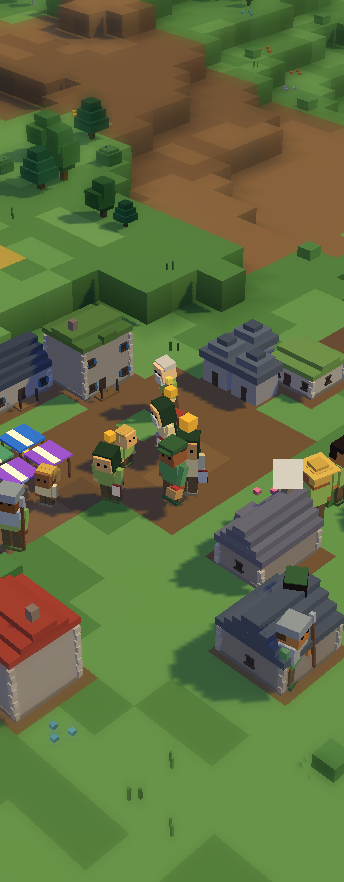
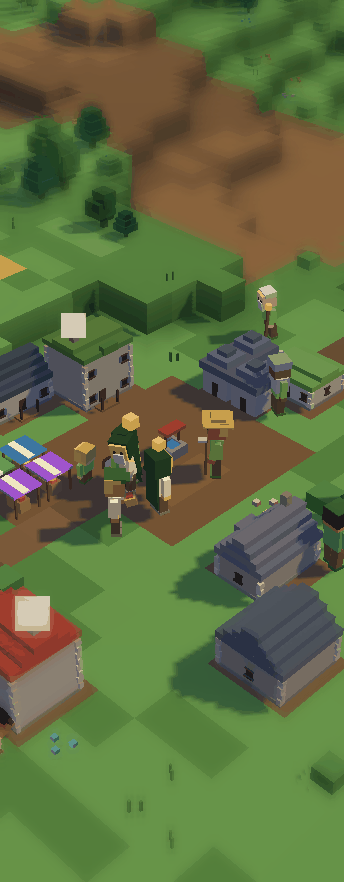
Looks: the miniature's blur becomes a depth of field, at every sky zoom
The owner, after the first frames: "more than bloom it's more depth of field".
The tilt switch now focuses on the point under the middle of the screen and
blurs more the farther in front of or behind it, read from a depth texture the
scene's own pass writes (no extra pass), at every zoom of the sky view, with a
shallower focus the more the camera holds the whole island; still off in the
eye view, still behind its own switch and the high preset. CPU cost alone at
700x830: +0.1 ms (3 passes, as before). Frames: a mid zoom on a village, off and
high, at 390x844 and 344x882; all frames now 256-colour PNGs (832 KB).

Claude-Session: https://claude.ai/code/session_01NxvtAnVeeSftkua711EPa8

diff --git a/src/sim/voxel/looks.ts b/src/sim/voxel/looks.ts
@@ -3,6 +3,7 @@ import {
   Camera,
   Color,
   CustomToneMapping,
+  DepthTexture,
   DirectionalLight,
   Fog,
   HalfFloatType,
@@ -12,6 +13,7 @@ import {
   MeshBasicMaterial,
   NoToneMapping,
   OrthographicCamera,
+  PerspectiveCamera,
   PlaneGeometry,
   Scene,
   ShaderChunk,
@@ -34,7 +36,7 @@ import { GRAPHICS } from "./graphics";
 //   shadows  a sun that casts soft shadows, warm in its light, cool in shade
 //   grade    a filmic curve and a colour grade, and haze over the far side
 //   bloom    glow that spills around bright parts, at night only
-//   tilt     the miniature's blur at the top and bottom of the sky view
+//   tilt     the miniature's depth of field in the sky view, focused where the camera looks
 
 // The colour grade, the same in GLSL and in JavaScript (the fog's colour is
 // added after the materials' grade, so it is graded here first). Colours are
@@ -250,12 +252,14 @@ float sunLight(vec3 n) {
 
     // Glow at night, and in a spell's darkness.
     this.bloomAmount = GRAPHICS.bloom ? Math.min(1, Math.max(Math.max(0, f.night - 0.2) / 0.6, f.dark)) : 0;
-    // The miniature's blur: from the sky, more the more of the island the camera holds.
+    // The miniature's depth of field: at every zoom of the sky view, in focus at the point under
+    // the middle of the screen, blurred in front of it and behind it; stronger, and with a
+    // shallower focus, the more of the island the camera holds. Never in the eye view.
     const whole = Math.min(1, Math.max(0, (f.cover - 0.15) / 0.75));
-    this.tiltAmount = GRAPHICS.tilt && !f.eye ? 0.45 + 0.55 * whole * whole * (3 - 2 * whole) : 0;
+    this.tiltAmount = GRAPHICS.tilt && !f.eye ? 0.75 + 0.25 * whole : 0;
     this.tiltCenter = 0.5;
-    // The sharp band narrows as the camera pulls back over the whole island.
-    this.tiltSharp = 0.05 + 0.1 * (1 - whole);
+    // How far in front or behind the focus stays sharp, as a share of the focus distance.
+    this.tiltSharp = 0.035 + 0.05 * (1 - whole);
   }
 
   // Lays the shadow map over what the camera holds, from the sun's side. The
@@ -356,7 +360,7 @@ float sunLight(vec3 n) {
 
 // The passes after the scene: the frame is drawn into a texture; bloom takes
 // its bright parts at a quarter of the width (a sixteenth of the pixels) and
-// blurs them, the tilt blur at half the width; one last pass mixes them and
+// blurs them, the depth of field's blur at half the width; one last pass mixes them and
 // grades the colour on the way to the screen.
 class Post {
   private scene = new Scene();
@@ -374,7 +378,8 @@ class Post {
 
   constructor() {
     const opts = { minFilter: LinearFilter, magFilter: LinearFilter, depthBuffer: false, type: UnsignedByteType };
-    this.full = new WebGLRenderTarget(1, 1, { ...opts, depthBuffer: true });
+    // Its depth is kept as a texture for the depth of field: written by the scene's own pass, no pass more.
+    this.full = new WebGLRenderTarget(1, 1, { ...opts, depthBuffer: true, depthTexture: new DepthTexture(1, 1) });
     this.halfA = new WebGLRenderTarget(1, 1, opts);
     this.halfB = new WebGLRenderTarget(1, 1, opts);
     // Bloom adds light: kept in half floats where the device has them, so faint glow does not band.
@@ -430,6 +435,10 @@ class Post {
     mixer.uniforms.tilt.value = o.tilt;
     mixer.uniforms.center.value = o.center;
     mixer.uniforms.sharp.value = o.sharp;
+    mixer.uniforms.tDepth.value = this.full.depthTexture;
+    const cam = camera as PerspectiveCamera;
+    mixer.uniforms.camNear.value = cam.near ?? 0.1;
+    mixer.uniforms.camFar.value = cam.far ?? 1000;
     this.pass(renderer, mixer, before);
     return passes + 1;
   }
@@ -459,6 +468,9 @@ class Post {
         tilt: { value: 0 },
         center: { value: 0.5 },
         sharp: { value: 0.1 },
+        tDepth: { value: null },
+        camNear: { value: 0.1 },
+        camFar: { value: 1000 },
       },
       vertexShader: QUAD_VERTEX,
       fragmentShader: `
@@ -469,14 +481,23 @@ uniform float bloom;
 uniform float tilt;
 uniform float center;
 uniform float sharp;
+uniform sampler2D tDepth;
+uniform float camNear;
+uniform float camFar;
 varying vec2 vUv;
+float viewDepth(vec2 uv) {
+  float z = texture2D(tDepth, uv).x * 2.0 - 1.0;
+  return 2.0 * camNear * camFar / (camFar + camNear - z * (camFar - camNear));
+}
 ${GRADE_GLSL}
 void main() {
   vec3 c = texture2D(tScene, vUv).rgb;
 #ifdef TILT
-  // Sharp in a band across the middle, blurred toward the top and bottom.
-  float d = abs(vUv.y - center);
-  float k = smoothstep(sharp, sharp + 0.24, d) * tilt;
+  // In focus at the point under the middle of the screen; the farther in front or behind, the
+  // more of the blurred frame shows.
+  float focus = viewDepth(vec2(center, 0.5));
+  float rel = abs(viewDepth(vUv) - focus) / max(focus, 1e-3);
+  float k = smoothstep(sharp, sharp * 3.0 + 0.12, rel) * tilt;
   c = mix(c, texture2D(tBlur, vUv).rgb, k);
 #endif
 #ifdef BLOOM

diff --git a/src/sim/voxel/graphics.ts b/src/sim/voxel/graphics.ts
@@ -29,10 +29,11 @@ export const GRAPHICS = {
   // only; three passes at a quarter of the pixels, and the frame is drawn
   // into a texture first.
   bloom: false,
-  // The miniature's blur: the top and bottom of the screen out of focus in
-  // the sky view, more the more the camera holds the whole island. Off in the
-  // eye view. Two passes at half the pixels, and the frame drawn into a
-  // texture first.
+  // The miniature's depth of field: in focus at the point under the middle of
+  // the screen, blurred in front of it and behind it, at every zoom of the sky
+  // view, shallower the more the camera holds the whole island. Off in the eye
+  // view. Two blur passes at half the pixels; the frame and its depth are
+  // drawn into textures by the scene's own pass (no pass for the depth).
   tilt: false,
 };
 

diff --git a/docs/measurements/looks-render/README.md b/docs/measurements/looks-render/README.md
@@ -15,9 +15,13 @@ four switches in `src/sim/voxel/graphics.ts`, each measured alone, drawn in
   the far side of the island, tuned with the existing fog.
 - `bloom`: glow that spills around bright parts, at night and in a spell's
   darkness only. Three passes at a quarter width (a sixteenth of the pixels).
-- `tilt`: the miniature's blur. The top and bottom of the screen go out of
-  focus in the sky view, more the more the camera holds the whole island; off
-  in the eye view. Two passes at half width. This is the diorama look.
+- `tilt`: the miniature's depth of field (the owner, after the first frames:
+  "more than bloom it's more depth of field"). In focus at the point under the
+  middle of the screen, blurred more the farther in front of it or behind it,
+  at every zoom of the sky view, with a shallower focus the more the camera
+  holds the whole island; off in the eye view. The depth comes from a depth
+  texture the scene's own pass writes (no extra pass); the blur is two passes
+  at half width. Frames `village-mid-*` show it at a mid zoom on a village.
 
 A quality preset (low, medium, high) is chosen from the device's own frame
 times (`QualityChooser`), with each look assigned to a level: low is the game
@@ -27,12 +31,13 @@ look at a time in the frame HUD (long press the title, open the World).
 
 ## The frames
 
-Three island views, each with every look off (`-low`) and with the high preset
+Four island views, each with every look off (`-low`) and with the high preset
 (`-high`), at 390x844 (a phone) and 344x882 (the owner's Z Fold folded):
 
 - `village-day-*` a village by day
 - `village-night-*` the same village at night, lit windows and glowing items
 - `island-day-*` the whole island from above
+- `village-mid-*` the village at a mid zoom (the depth of field)
 
 ## Cost (CPU side only; the phone must judge the GPU)
 
@@ -49,7 +54,7 @@ Measured alone at 700x830 (the Fold open), medium island, dpr 1:
 | shadows       | 4.4 ms       | 4.9 ms      | +45 (map)   | 0                  |
 | grade         | ~0 extra     | ~0 extra    | 0           | 0                  |
 | bloom (night) | +0.3 ms      | n/a (day)   | 0           | 3                  |
-| tilt          | +0.9 ms      | +0.0 ms     | 0           | 3                  |
+| tilt (depth)  | +0.1 ms      | +0.1 ms     | 0           | 3 (depth: none)    |
 
 Shadows cost one extra scene pass into the map (its draw calls scale with what
 casts). Grade is free on the CPU (a shader change, no pass). Bloom and tilt add
